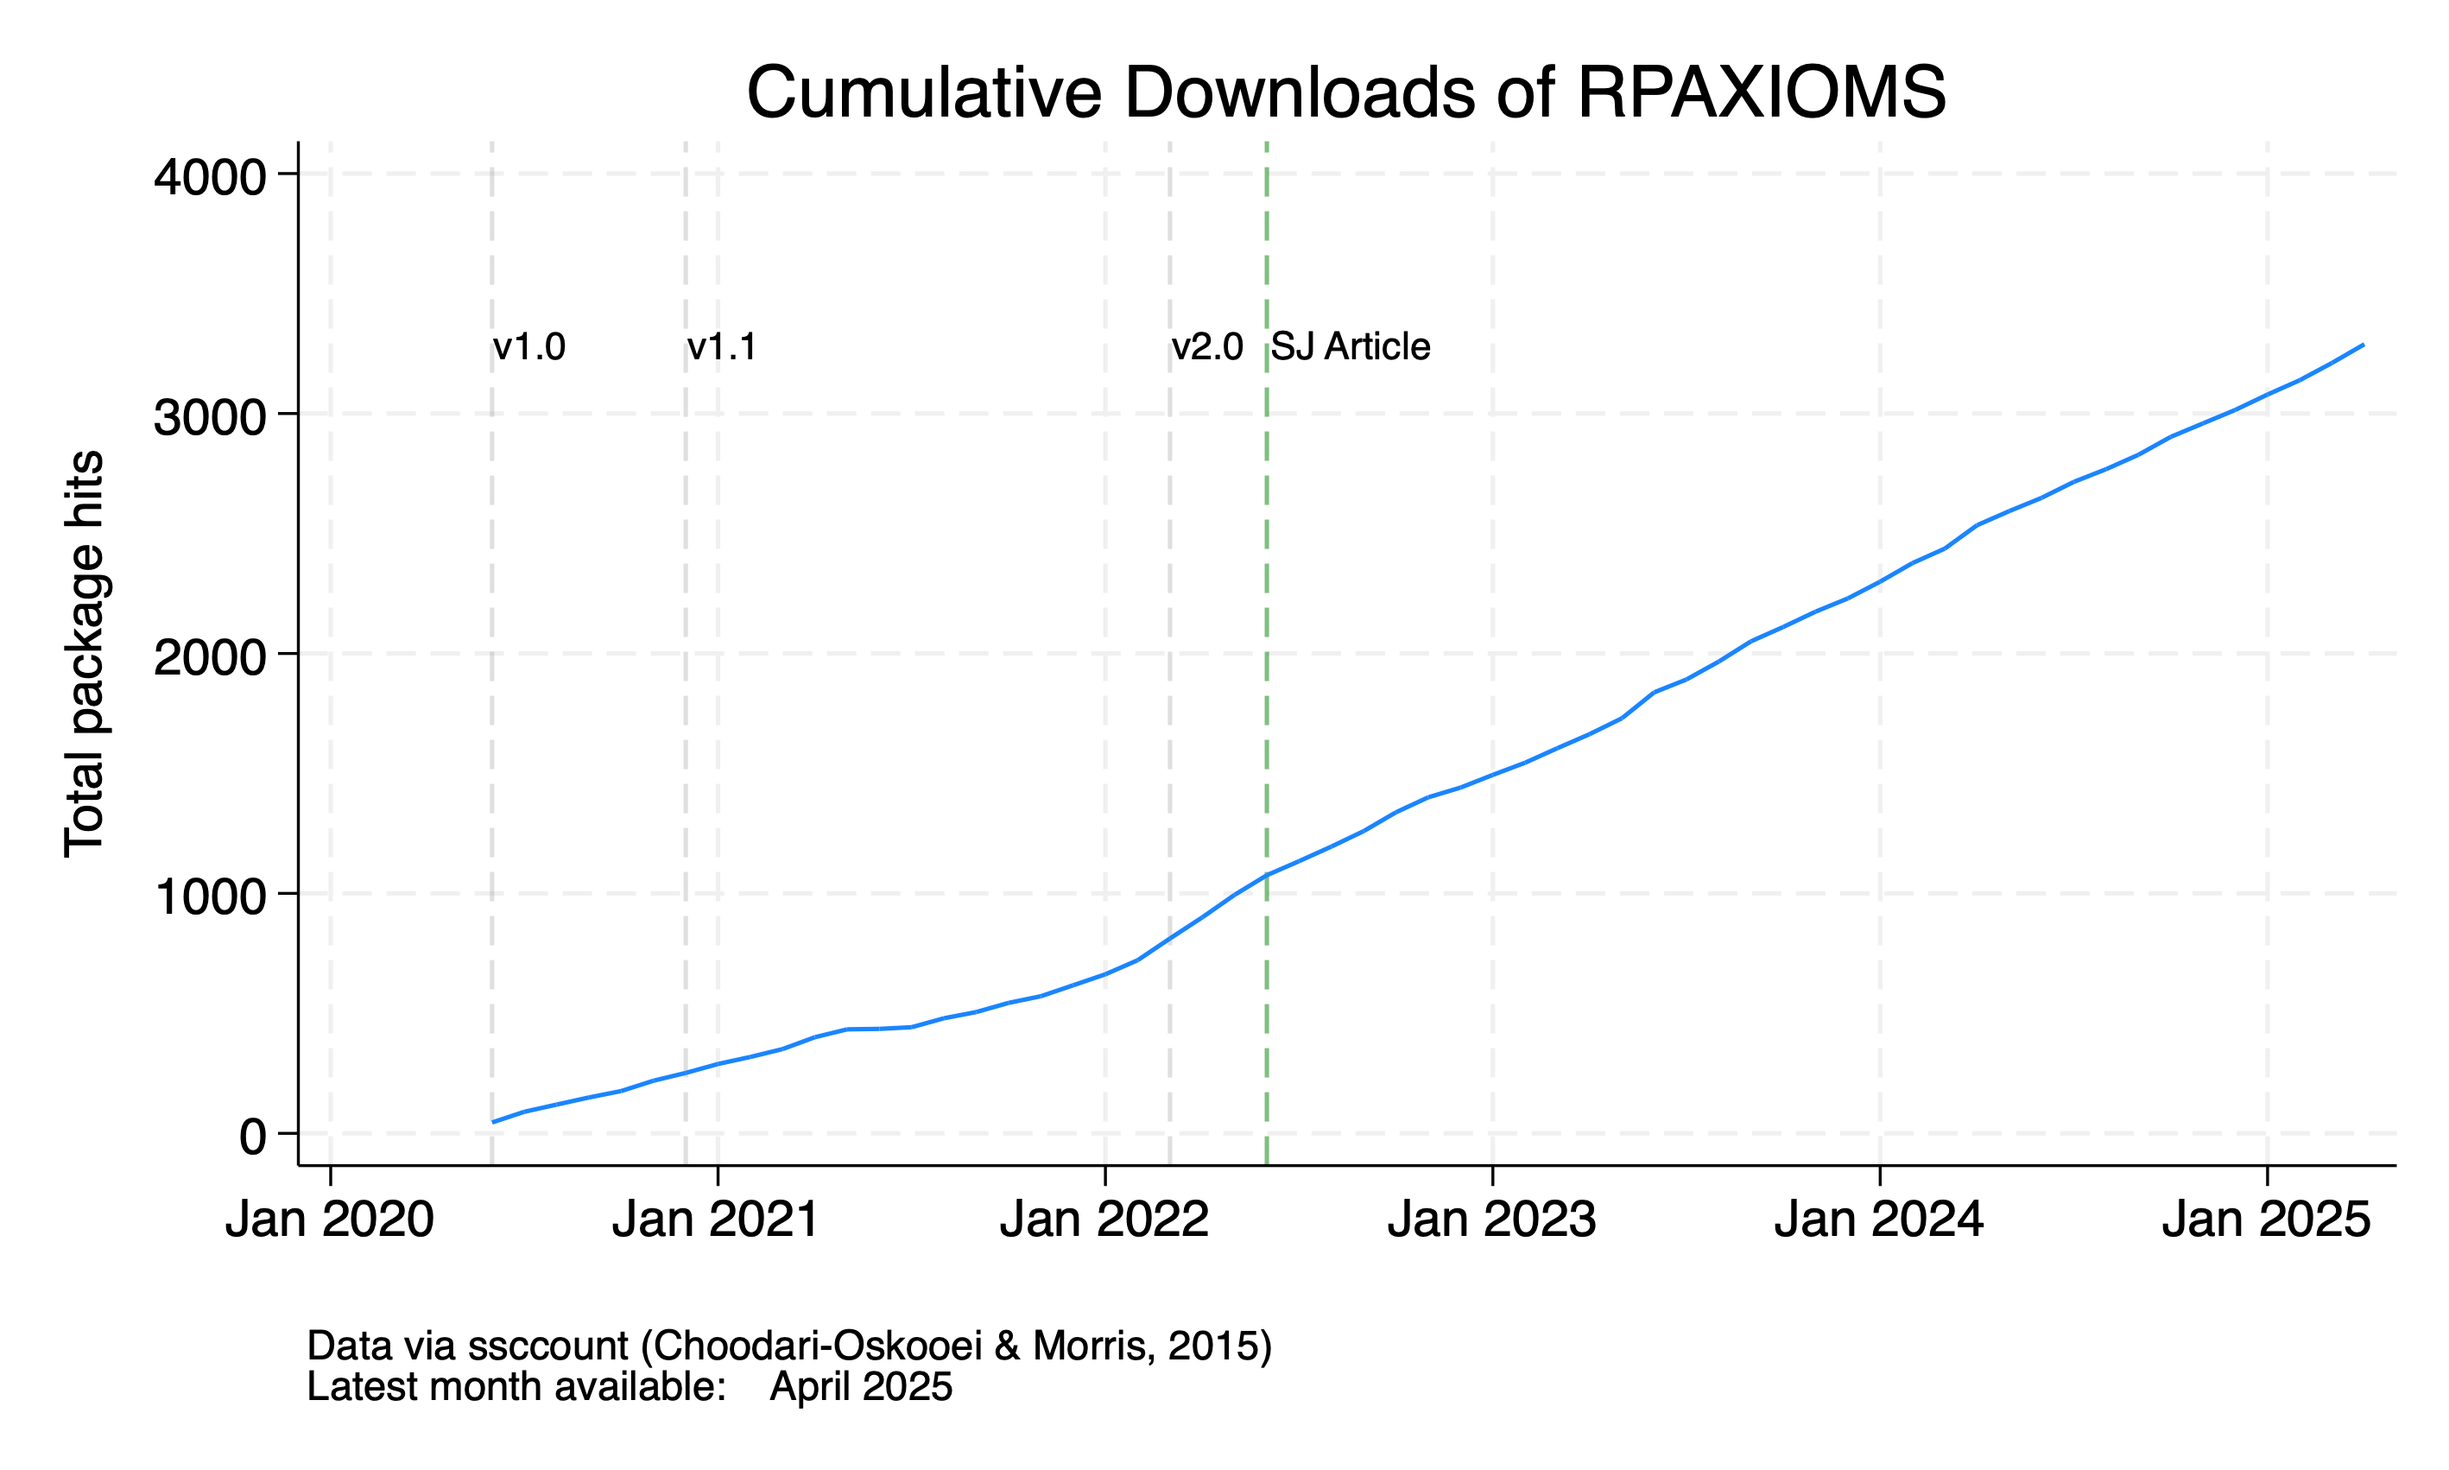
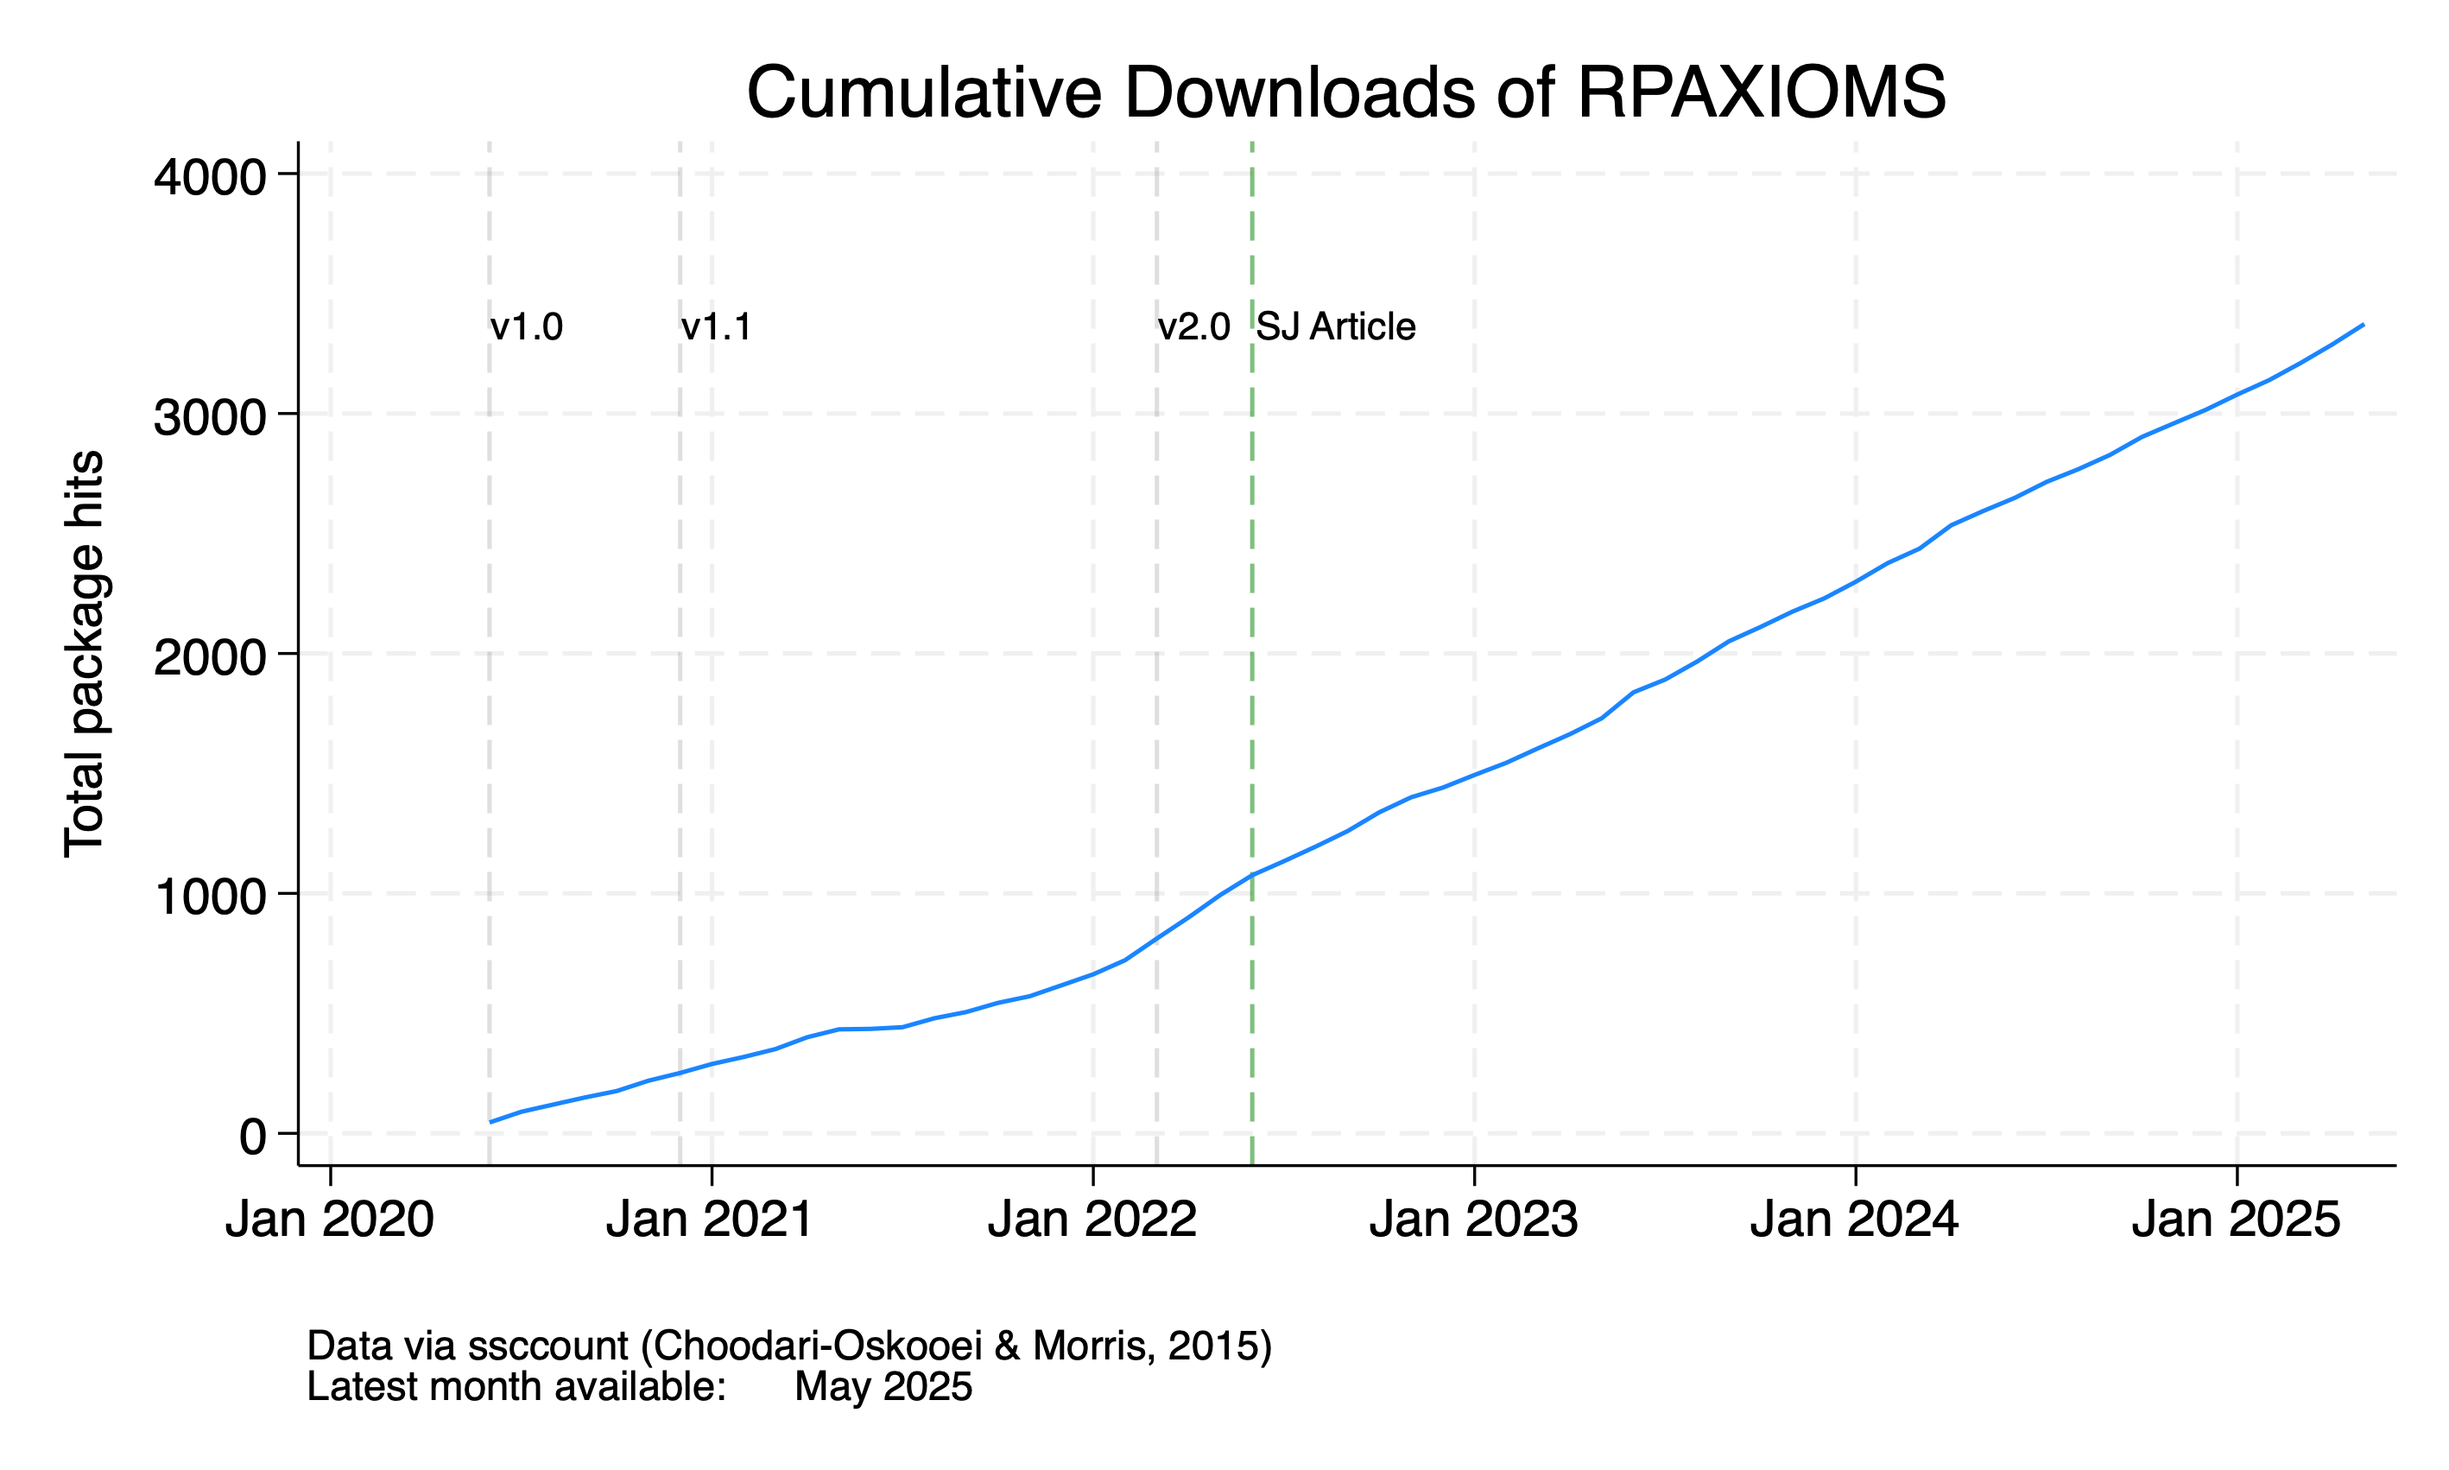
update npkghits

diff --git a/_research/2022-07-01-rpaxioms.md b/_research/2022-07-01-rpaxioms.md
@@ -17,7 +17,7 @@ household-level aggregate consumption data.
 ## Citation
 Demetry, M., Hjertstrand, P. and Polisson, M., 2022. Testing axioms of revealed preference in Stata. <i>The Stata Journal</i>, 22(2), pp.319-343.
 
-## Total downloads: 3,289
+## Total downloads: 3,373
 <img src="/assets/img/research-rpaxioms/rpaxioms_cumulative_hits.png" alt="number of downloads" width="100%"/>
 
 <details>

diff --git a/_research/2022-12-01-hmindex.md b/_research/2022-12-01-hmindex.md
@@ -13,7 +13,7 @@ note introduces the _Stata_ command __hmindex__, which calculates the Houtman-Ma
 prices and observed choices of a consumer. The command is illustrated with an empirical application.
 
 
-## Total downloads: 1,901
+## Total downloads: 1,958
 <img src="/assets/img/research-hmindex/hmindex_cumulative_hits.png" alt="number of downloads" width="100%"/>
 
 
